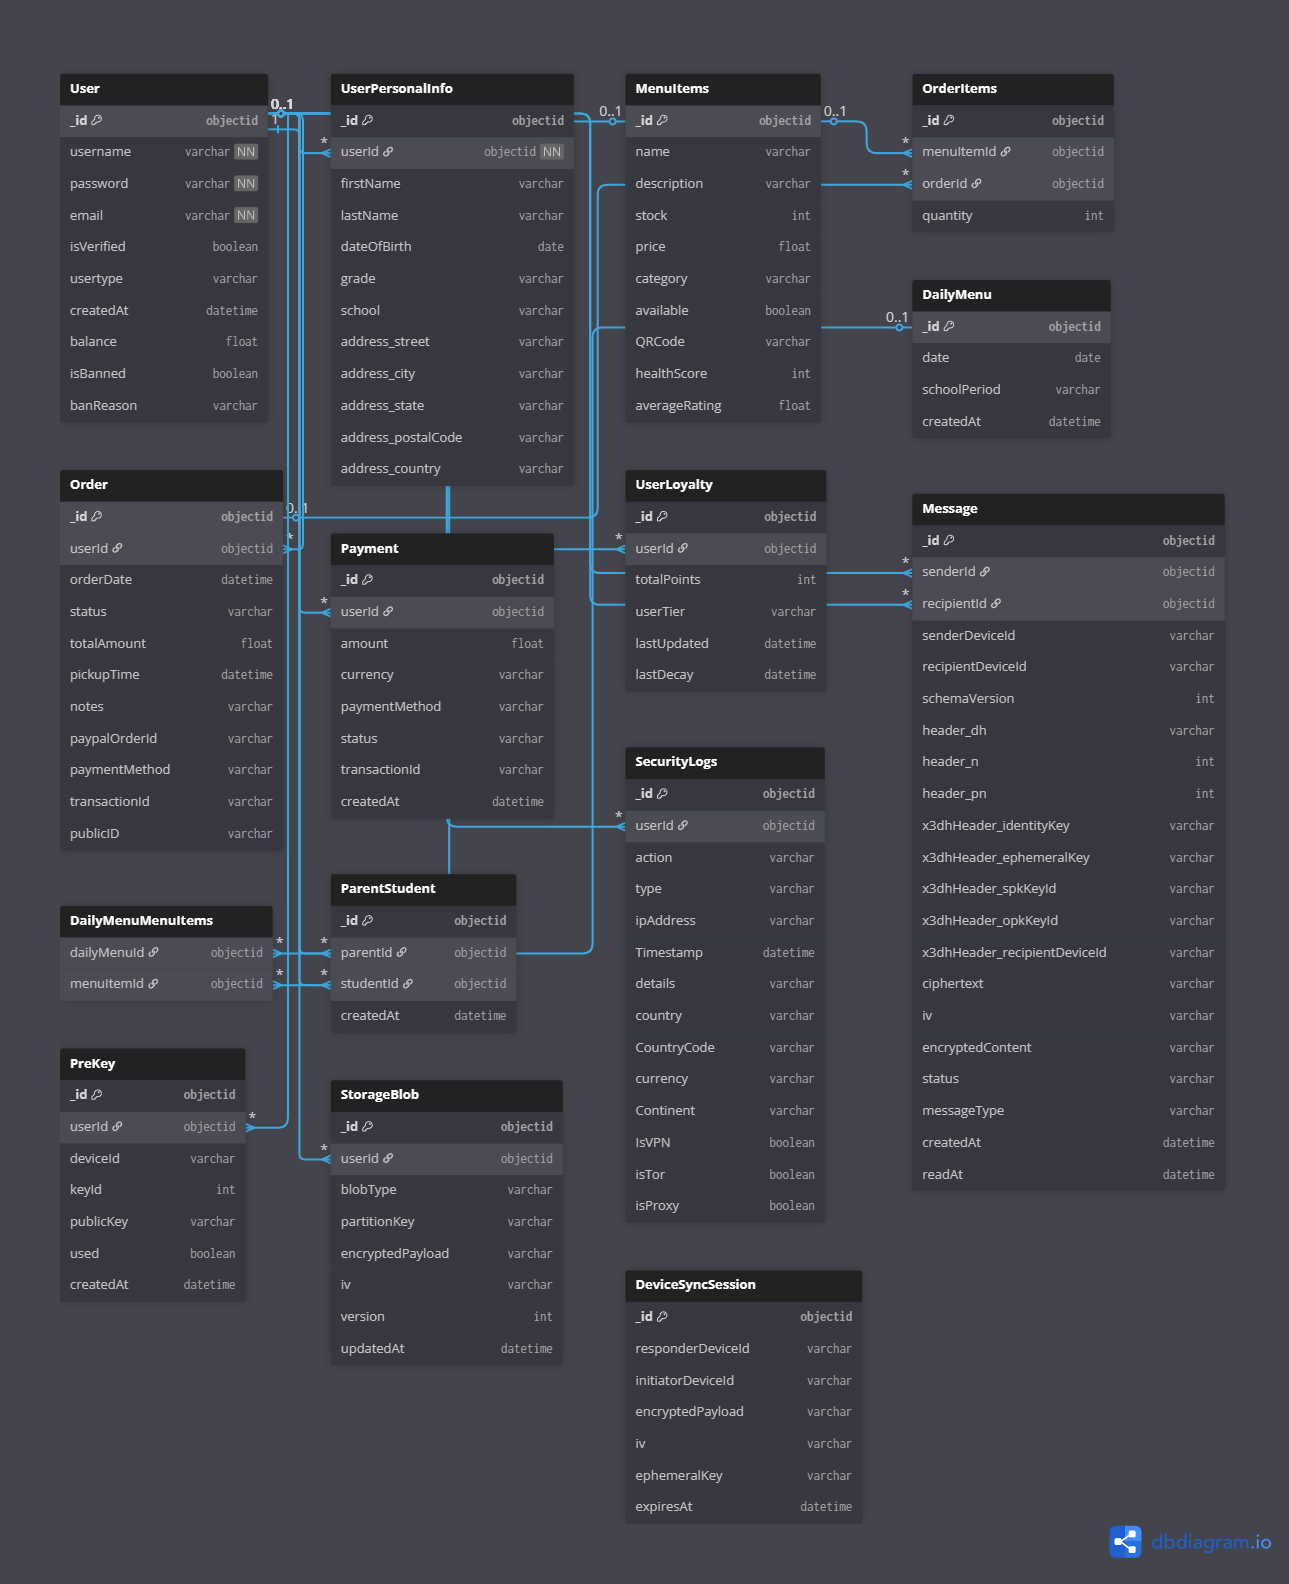
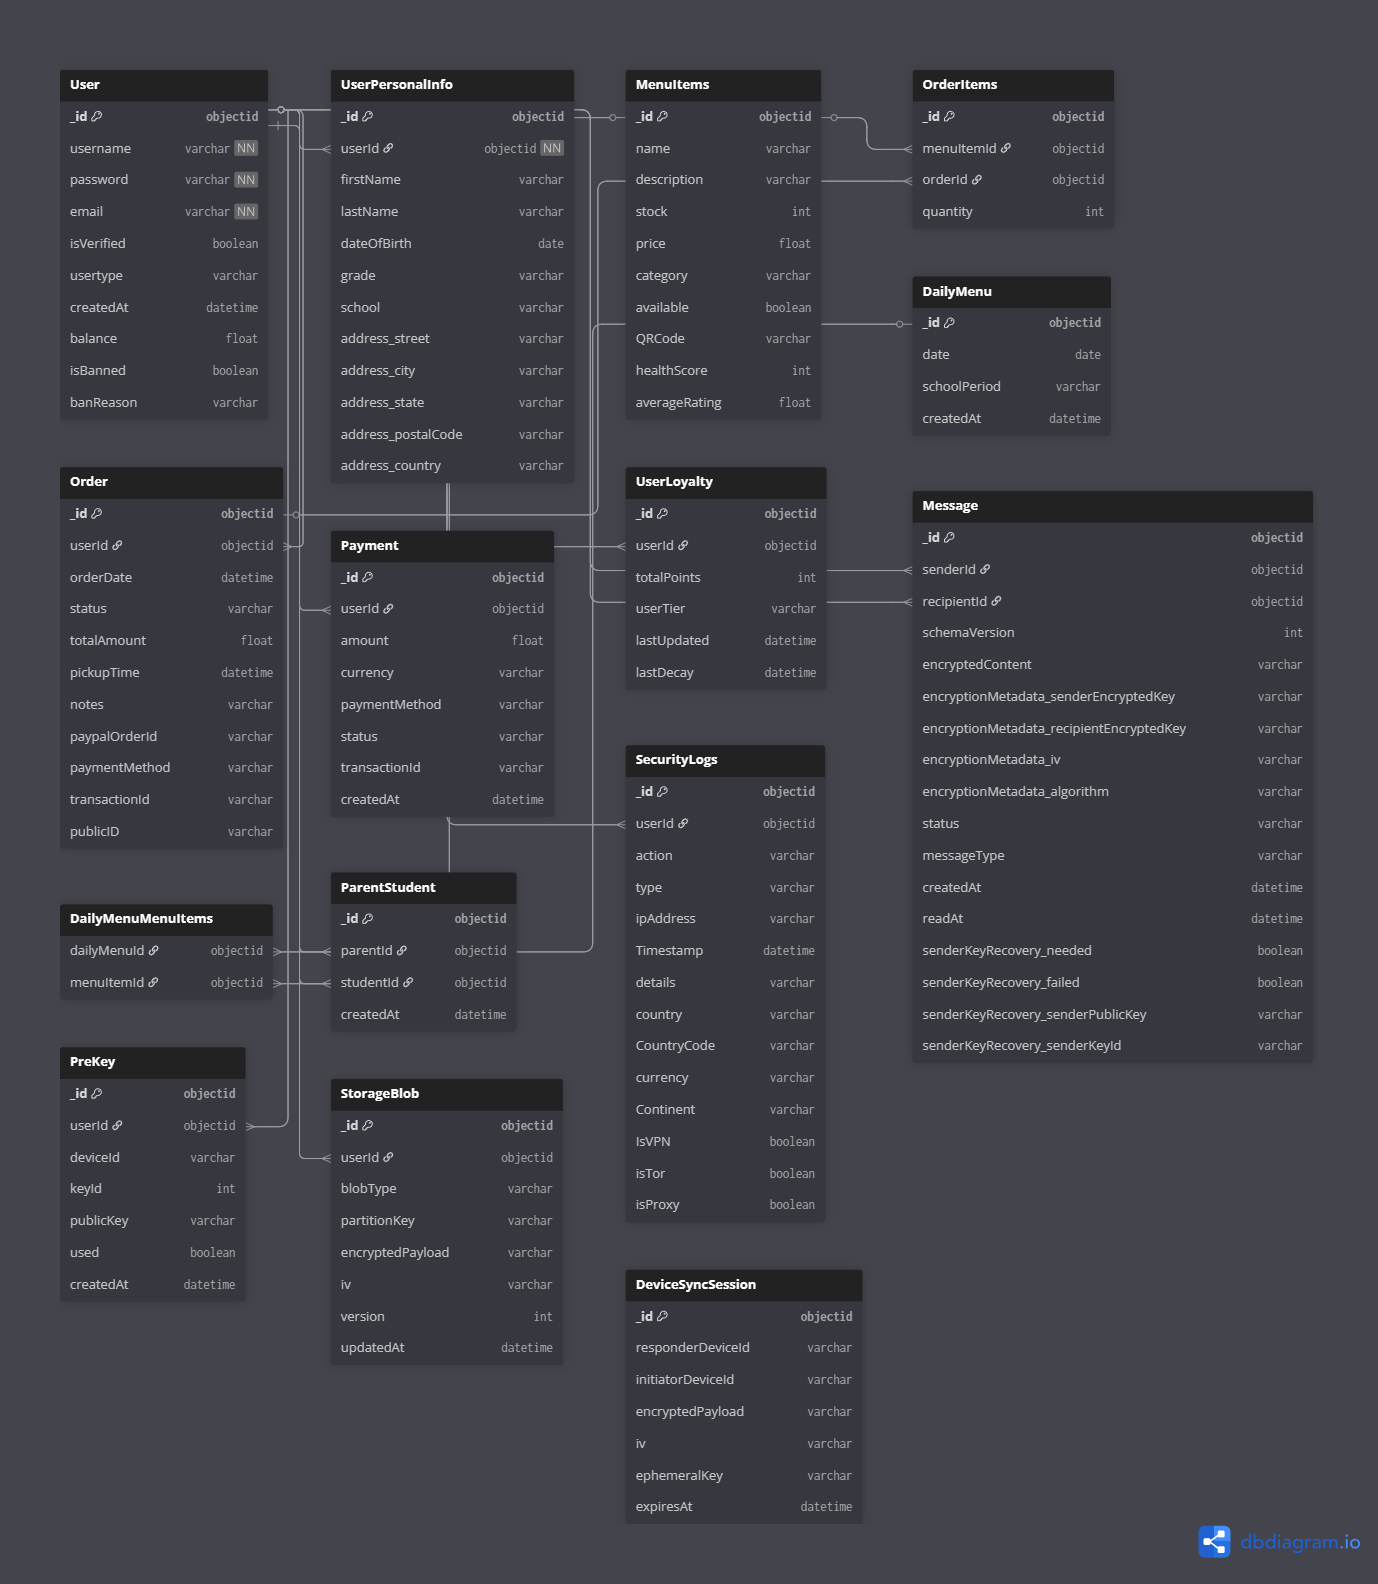
Documentation updated for clarity

diff --git a/src/models/Message.js b/src/models/Message.js
@@ -8,29 +8,10 @@ const dbName = process.env.DB_NAME;
 
 const messageSchema = new mongoose.Schema({
   // Routing
-  senderId:          { type: mongoose.Schema.Types.ObjectId, ref: 'User', required: true },
-  recipientId:       { type: mongoose.Schema.Types.ObjectId, ref: 'User', required: true },
-  senderDeviceId:    { type: String },
-  recipientDeviceId: { type: String },
+  senderId:    { type: mongoose.Schema.Types.ObjectId, ref: 'User', required: true },
+  recipientId: { type: mongoose.Schema.Types.ObjectId, ref: 'User', required: true },
 
-  schemaVersion:     { type: Number, default: 2 },
-
-
-  header: {
-    dh:  { type: String },   // sender ratchet public key (SPKI base64)
-    n:   { type: Number },   // message number in current chain
-    pn:  { type: Number }    // messages in previous sending chain
-  },
-  // X3DH bootstrap header — only present on the very first message of a session
-  x3dhHeader: {
-    identityKey:       { type: String },
-    ephemeralKey:      { type: String },
-    spkKeyId:          { type: String },
-    opkKeyId:          { type: mongoose.Schema.Types.Mixed },  // Number | null
-    recipientDeviceId: { type: String }
-  },
-  ciphertext: { type: String },   // AES-256-GCM ciphertext (base64)
-  iv:         { type: String },   // 96-bit GCM IV (base64)
+  schemaVersion: { type: Number, default: 2 },
 
   // ── v1 legacy fields (kept for migration reads) ───────────────────────────
   encryptedContent:   { type: String },
@@ -57,7 +38,6 @@ const messageSchema = new mongoose.Schema({
 messageSchema.index({ senderId: 1, recipientId: 1, createdAt: -1 });
 messageSchema.index({ recipientId: 1, status: 1 });
 messageSchema.index({ recipientId: 1, 'senderKeyRecovery.needed': 1 });
-messageSchema.index({ recipientDeviceId: 1, status: 1 });
 messageSchema.index({ createdAt: -1 });
 
 messageSchema.virtual('participants').get(function() {

diff --git a/docs/new_doc_hu.md b/docs/new_doc_hu.md
@@ -502,19 +502,7 @@ Ez a táblázat önállóan működik, más táblákhoz nem kapcsolódik, és cs
 |------------|------|--------------|-------------|---------|
 | senderId | ObjectId (ref: User) | Sender user ID | Required | senderId, recipientId, createdAt |
 | recipientId | ObjectId (ref: User) | Recipient user ID | Required | recipientId, status |
-| senderDeviceId | String | Sender device ID | Optional | recipientDeviceId, status |
-| recipientDeviceId | String | Recipient device ID | Optional | _id |
 | schemaVersion | Number | Schema version | Default: 2 | _id |
-| header.dh | String | Sender ratchet public key | Optional | _id |
-| header.n | Number | Message number in chain | Optional | _id |
-| header.pn | Number | Previous chain message count | Optional | _id |
-| x3dhHeader.identityKey | String | Identity key for X3DH | Optional | _id |
-| x3dhHeader.ephemeralKey | String | Ephemeral key for X3DH | Optional | _id |
-| x3dhHeader.spkKeyId | String | Signed prekey ID | Optional | _id |
-| x3dhHeader.opkKeyId | Mixed | One-time prekey ID | Optional | _id |
-| x3dhHeader.recipientDeviceId | String | Recipient device for X3DH | Optional | _id |
-| ciphertext | String | Encrypted message content | Optional | _id |
-| iv | String | GCM IV | Optional | _id |
 | encryptedContent | String | Legacy encrypted content | Optional | _id |
 | encryptionMetadata.senderEncryptedKey | String | Legacy sender key | Optional | _id |
 | encryptionMetadata.recipientEncryptedKey | String | Legacy recipient key | Optional | _id |
@@ -529,7 +517,7 @@ Ez a táblázat önállóan működik, más táblákhoz nem kapcsolódik, és cs
 | senderKeyRecovery.senderPublicKey | String | Recovery public key | Optional | _id |
 | senderKeyRecovery.senderKeyId | String | Recovery key ID | Optional | _id |
 
-Üzleti szabályok: End-to-end titkosított üzeneteket tárol Double Ratchet protokollal. Tartalmazza az X3DH fejlécet kezdeti kulcscsere céljából. Az állapotkövetés figyeli a kézbesítést és olvasást. Támogatja a kapott kulcsok helyreállítását. A migráció érdekében régi mezők is megmaradnak. Az indexek optimalizáltak a beszélgetések lekérésére és állapotszűrésre.
+Üzleti szabályok: End-to-end titkosított üzeneteket tárol Double Ratchet protokollal. Az állapotkövetés figyeli a kézbesítést és olvasást. Támogatja a kapott kulcsok helyreállítását. A migráció érdekében régi mezők is megmaradnak. Az indexek optimalizáltak a beszélgetések lekérésére és állapotszűrésre.
 
 ##### PreKey (Prekeys)
 

diff --git a/docs/new_doc.md b/docs/new_doc.md
@@ -502,19 +502,7 @@ Business Rules: Ephemeral session for synchronizing encryption keys between devi
 |------------|------|--------------|-------------|---------|
 | senderId | ObjectId (ref: User) | Sender user ID | Required | senderId, recipientId, createdAt |
 | recipientId | ObjectId (ref: User) | Recipient user ID | Required | recipientId, status |
-| senderDeviceId | String | Sender device ID | Optional | recipientDeviceId, status |
-| recipientDeviceId | String | Recipient device ID | Optional | _id |
 | schemaVersion | Number | Schema version | Default: 2 | _id |
-| header.dh | String | Sender ratchet public key | Optional | _id |
-| header.n | Number | Message number in chain | Optional | _id |
-| header.pn | Number | Previous chain message count | Optional | _id |
-| x3dhHeader.identityKey | String | Identity key for X3DH | Optional | _id |
-| x3dhHeader.ephemeralKey | String | Ephemeral key for X3DH | Optional | _id |
-| x3dhHeader.spkKeyId | String | Signed prekey ID | Optional | _id |
-| x3dhHeader.opkKeyId | Mixed | One-time prekey ID | Optional | _id |
-| x3dhHeader.recipientDeviceId | String | Recipient device for X3DH | Optional | _id |
-| ciphertext | String | Encrypted message content | Optional | _id |
-| iv | String | GCM IV | Optional | _id |
 | encryptedContent | String | Legacy encrypted content | Optional | _id |
 | encryptionMetadata.senderEncryptedKey | String | Legacy sender key | Optional | _id |
 | encryptionMetadata.recipientEncryptedKey | String | Legacy recipient key | Optional | _id |
@@ -529,7 +517,7 @@ Business Rules: Ephemeral session for synchronizing encryption keys between devi
 | senderKeyRecovery.senderPublicKey | String | Recovery public key | Optional | _id |
 | senderKeyRecovery.senderKeyId | String | Recovery key ID | Optional | _id |
 
-Business Rules: Stores end-to-end encrypted messages using Double Ratchet protocol. Includes X3DH headers for initial key exchange. Status tracks delivery and read state. Supports key recovery for lost encryption keys. Legacy fields maintained for migration. Indexes optimized for conversation retrieval and status updates.
+Business Rules: Stores end-to-end encrypted messages using Double Ratchet protocol. Status tracks delivery and read state. Supports key recovery for lost encryption keys. Legacy fields are maintained for migration compatibility. Indexes optimized for conversation retrieval and status updates.
 
 ##### PreKey (Prekeys)
 
